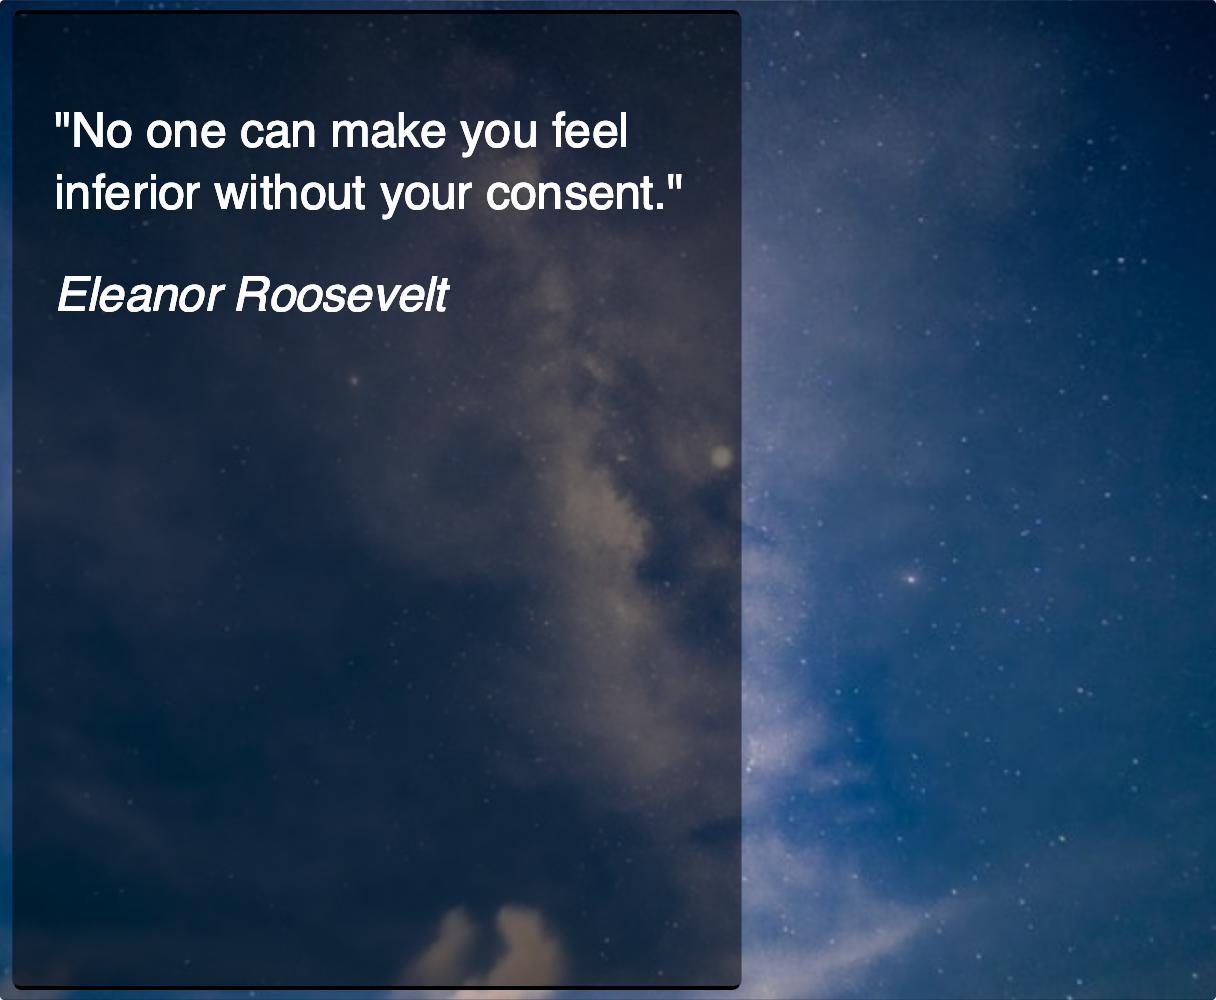
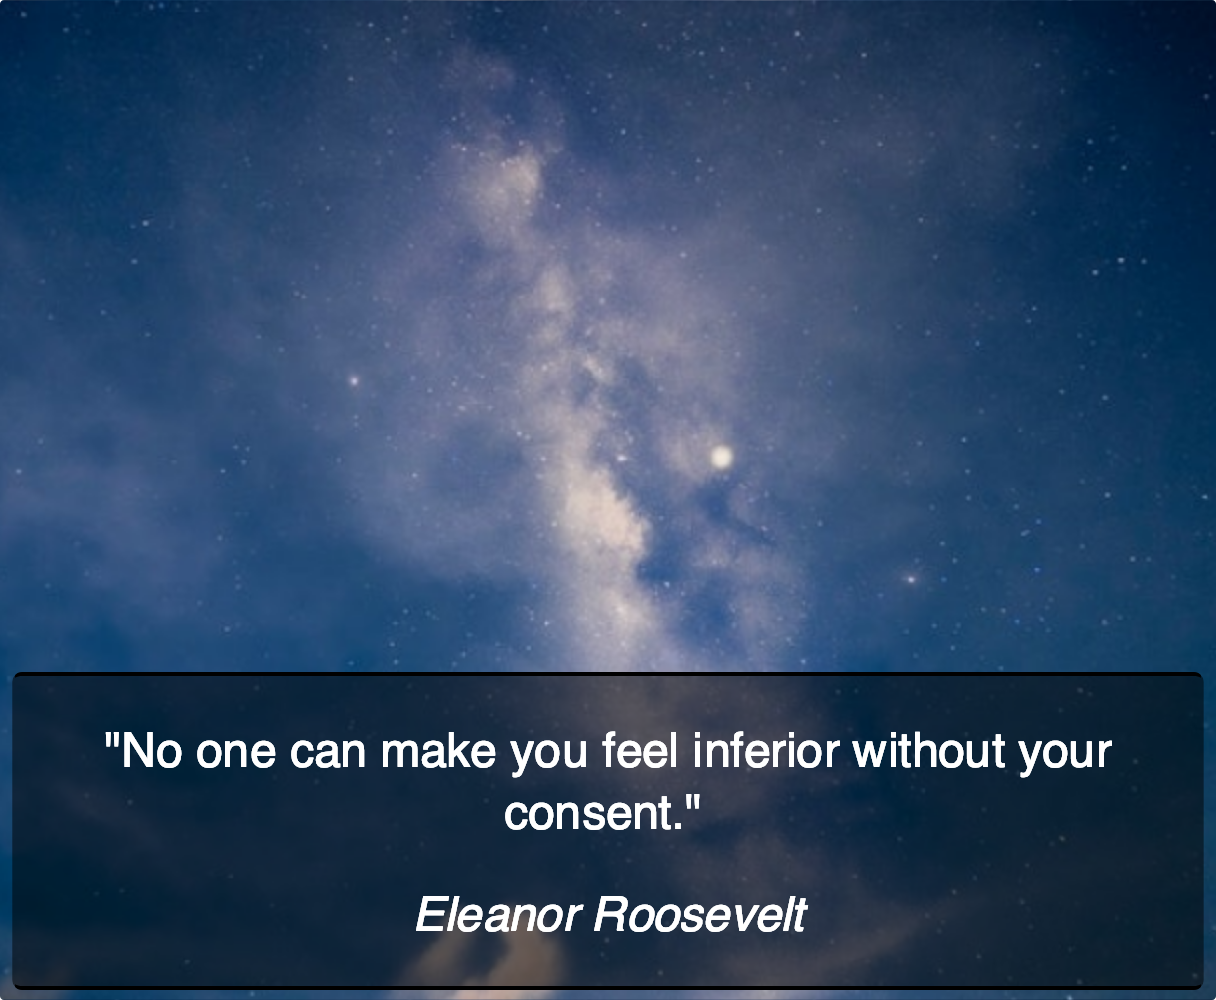
poster seeders

diff --git a/database/seeds/PostersTableSeeder.php b/database/seeds/PostersTableSeeder.php
@@ -13,10 +13,10 @@
         public function run () {
 
             $posters = [
-                [ 'Oscar Wilde', 'Be yourself; everyone else is already taken.', 'design_1', 1, 3, 'oscarwilde_beyourselfeveryone_31.png', 1 ],
-                [ 'Mahatma Gandhi', 'Be the change that you wish to see in the world.', 'design_1', 1, 2, 'mahatmagandhi_bethechange_21.png', 1 ],
-                [ 'Eleanor Roosevelt', 'No one can make you feel inferior without your consent.', 'design_1', 1, 20, 'eleanorroosevelt_noonecan_201.png', 2 ],
-                [ 'Mahatma Gandhi', 'Live as if you were to die tomorrow. Learn as if you were to live forever.', 'design_1', 1, 18, 'mahatmagandhi_liveasif_181.png', 2 ],
+                [ 'Oscar Wilde', 'Be yourself; everyone else is already taken.', 'design_2', 1, 3, 'oscarwilde_beyourselfeveryone_31.png', null ],
+                [ 'Mahatma Gandhi', 'Be the change that you wish to see in the world.', 'design_3', 1, 2, 'mahatmagandhi_bethechange_21.png', null ],
+                [ 'Eleanor Roosevelt', 'No one can make you feel inferior without your consent.', 'design_1', 1, 20, 'eleanorroosevelt_noonecan_201.png', null ],
+                [ 'Mahatma Gandhi', 'Live as if you were to die tomorrow. Learn as if you were to live forever.', 'design_5', 1, 18, 'mahatmagandhi_liveasif_181.png', null ],
             ];
 
             $count = count($posters);
